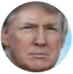
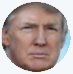
trump face

diff --git a/index.html b/index.html
@@ -32,8 +32,8 @@
 
     <button id="begin">Begin!</button>
 
-    <div id="leftTweet" class="twitter-tweet" hidden=true><br><img src="images/sample_tweet.png"><p id="leftp"></p></div>
-    <div id="rightTweet" class="twitter-tweet" hidden=true><br><img src="images/sample_tweet.png"><p id="rightp"></p></div>
+    <div id="leftTweet" class="twitter-tweet" hidden=true><br><img id="trump" src="images/trump_image.png"> Donald J. Trump <img src="images/verified_blue.png"><p id="leftp"></p></div>
+    <div id="rightTweet" class="twitter-tweet" hidden=true><br><img id="trump" src="images/trump_image.png"> Donald J. Trump <img src="images/verified_blue.png"><p id="rightp"></p></div>
 
     <br>
 
